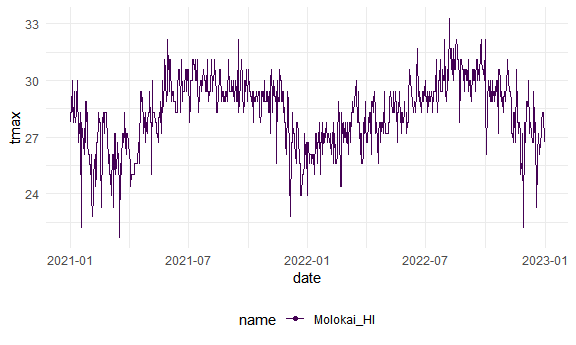
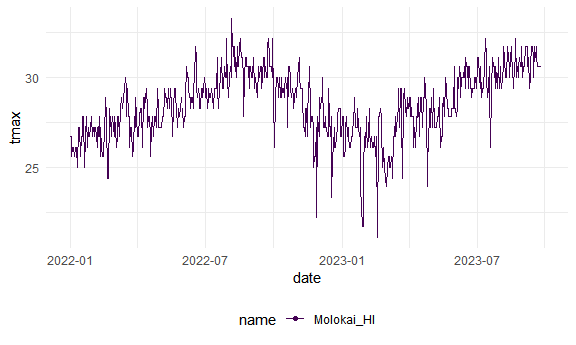
creating more plots

diff --git a/viz_part2.md b/viz_part2.md
@@ -41,8 +41,8 @@ weather_df =
   rnoaa::meteo_pull_monitors(
     c("USW00094728", "USW00022534", "USS0023B17S"),
     var = c("PRCP", "TMIN", "TMAX"), 
-    date_min = "2021-01-01",
-    date_max = "2022-12-31") |>
+    date_min = "2022-01-01",
+    date_max = "2023-12-31") |>
   mutate(
     name = recode(
       id, 
@@ -72,6 +72,8 @@ weather_df =
 
     ## file min/max dates: 1999-09-01 / 2023-09-30
 
+This results in a dataframe with 1914 observations on six variables.
+
 ## Same plot from last time
 
 ``` r
@@ -87,7 +89,7 @@ weather_df |>
   )
 ```
 
-    ## Warning: Removed 17 rows containing missing values (`geom_point()`).
+    ## Warning: Removed 30 rows containing missing values (`geom_point()`).
 
 <img src="viz_part2_files/figure-gfm/unnamed-chunk-3-1.png" width="90%" />
 
@@ -116,7 +118,7 @@ weather_df |>
 
     ## Warning: Transformation introduced infinite values in continuous y-axis
 
-    ## Warning: Removed 142 rows containing missing values (`geom_point()`).
+    ## Warning: Removed 135 rows containing missing values (`geom_point()`).
 
 <img src="viz_part2_files/figure-gfm/unnamed-chunk-4-1.png" width="90%" />
 
@@ -136,7 +138,7 @@ weather_df |>
   viridis::scale_color_viridis(discrete = TRUE)
 ```
 
-    ## Warning: Removed 17 rows containing missing values (`geom_point()`).
+    ## Warning: Removed 30 rows containing missing values (`geom_point()`).
 
 <img src="viz_part2_files/figure-gfm/unnamed-chunk-5-1.png" width="90%" />
 
@@ -158,7 +160,7 @@ weather_df |>
   theme(legend.position = "bottom") 
 ```
 
-    ## Warning: Removed 17 rows containing missing values (`geom_point()`).
+    ## Warning: Removed 30 rows containing missing values (`geom_point()`).
 
 <img src="viz_part2_files/figure-gfm/unnamed-chunk-6-1.png" width="90%" />
 
@@ -173,9 +175,9 @@ weather_df |>
 
     ## `geom_smooth()` using method = 'gam' and formula = 'y ~ s(x, bs = "cs")'
 
-    ## Warning: Removed 17 rows containing non-finite values (`stat_smooth()`).
+    ## Warning: Removed 30 rows containing non-finite values (`stat_smooth()`).
 
-    ## Warning: Removed 17 rows containing missing values (`geom_point()`).
+    ## Warning: Removed 30 rows containing missing values (`geom_point()`).
 
 <img src="viz_part2_files/figure-gfm/unnamed-chunk-7-1.png" width="90%" />
 
@@ -193,6 +195,8 @@ ggplot(nyc_weather_df, aes(x = date, y = tmax, color = name)) +
   geom_line(data = hawaii_weather_df)
 ```
 
+    ## Warning: Removed 5 rows containing missing values (`geom_line()`).
+
 <img src="viz_part2_files/figure-gfm/unnamed-chunk-7-2.png" width="90%" />
 
 ## `patchwork`
@@ -204,7 +208,7 @@ weather_df |>
   facet_grid(. ~ name)
 ```
 
-    ## Warning: Removed 17 rows containing missing values (`geom_point()`).
+    ## Warning: Removed 30 rows containing missing values (`geom_point()`).
 
 <img src="viz_part2_files/figure-gfm/unnamed-chunk-8-1.png" width="90%" />
 
@@ -232,12 +236,12 @@ ggp_tmax_date =
 (ggp_temp_scatter + ggp_prcp_density) / ggp_tmax_date
 ```
 
-    ## Warning: Removed 17 rows containing missing values (`geom_point()`).
+    ## Warning: Removed 30 rows containing missing values (`geom_point()`).
 
     ## `geom_smooth()` using method = 'loess' and formula = 'y ~ x'
 
-    ## Warning: Removed 17 rows containing non-finite values (`stat_smooth()`).
-    ## Removed 17 rows containing missing values (`geom_point()`).
+    ## Warning: Removed 30 rows containing non-finite values (`stat_smooth()`).
+    ## Removed 30 rows containing missing values (`geom_point()`).
 
 <img src="viz_part2_files/figure-gfm/unnamed-chunk-9-1.png" width="90%" />
 
@@ -252,7 +256,7 @@ weather_df |>
   geom_boxplot()
 ```
 
-    ## Warning: Removed 17 rows containing non-finite values (`stat_boxplot()`).
+    ## Warning: Removed 30 rows containing non-finite values (`stat_boxplot()`).
 
 <img src="viz_part2_files/figure-gfm/unnamed-chunk-10-1.png" width="90%" />
 
@@ -268,11 +272,11 @@ weather_df |>
     ## Warning: There was 1 warning in `mutate()`.
     ## ℹ In argument: `name = fct_reorder(name, tmax)`.
     ## Caused by warning:
-    ## ! `fct_reorder()` removing 17 missing values.
+    ## ! `fct_reorder()` removing 30 missing values.
     ## ℹ Use `.na_rm = TRUE` to silence this message.
     ## ℹ Use `.na_rm = FALSE` to preserve NAs.
 
-    ## Warning: Removed 17 rows containing non-finite values (`stat_ydensity()`).
+    ## Warning: Removed 30 rows containing non-finite values (`stat_ydensity()`).
 
 <img src="viz_part2_files/figure-gfm/unnamed-chunk-10-2.png" width="90%" />
 
